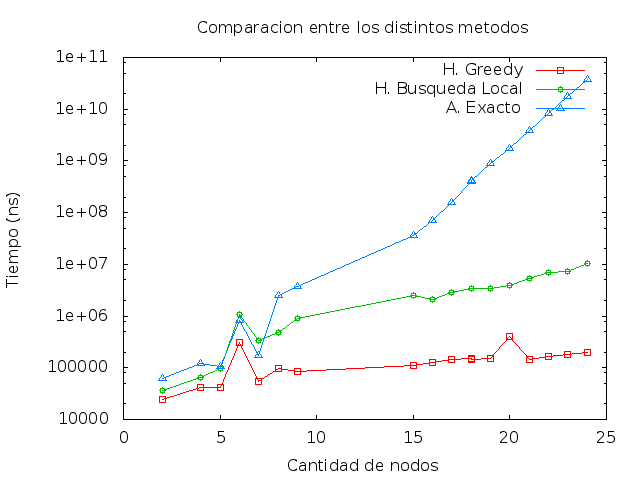
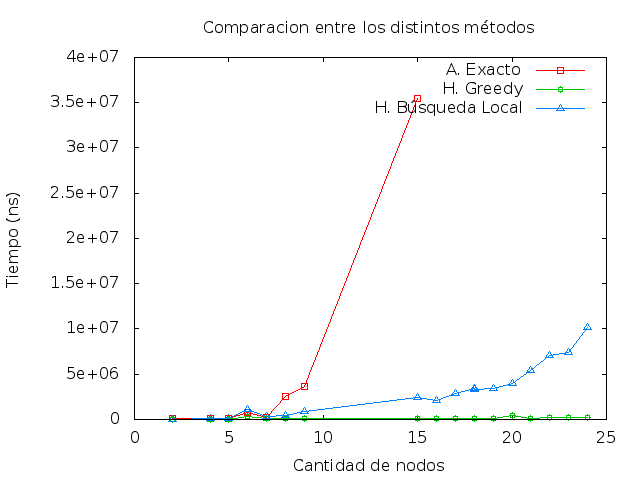
Modificacion en el informe, nuevo grafico de comparacion entre los 3 metodos

diff --git a/tp3/informe/Desarrollo4.tex b/tp3/informe/Desarrollo4.tex
@@ -58,7 +58,7 @@ En particular, hemos encontrado dos casos generales distintos: por un lado, aque
 
 \subsection{Test y análisis}
 En primer lugar, hemos hecho test para encontrar cuál de todas las funciones encuentra los nodos óptimos para el intercambio de nodos 2x1. En la teoría, todas analizan factores distintos, pero en la práctica, al ser muy pocos los nodos que pudimos intercambiar, las distintas funciones no han aportados cambios significativos en la cardinalidad de las soluciones. A lo sumo, ésta han diferido en 1 nodo, no más, y la que ha resultado más efectiva ha sido la de encontrar la diferencia de grados entre la tupla a quitar y el nodo a insertar. Es por eso que ésta función ha sido la que utilizamos para las pruebas restantes. \\
-Una vez establecida qué función deberíamos utilizar para el 2x1, nos abocamos a testear el método de búsqueda local de acuerdo a la cantidad de nodos del grafo y el tiempo que le consume encontrar una solución. Vale aclarar que no tomamos en consideración el tiempo que nos consume encontrar una solución para darle a la búsqueda loca, ya que consideramos que ello no es parte de nuestro algoritmo. De ésta forma, podemos ver que nuestro algoritmo se comporta de forma polinómica en función del tiempo, como lo analizamos en la sección de complejidad.
+Una vez establecida qué función deberíamos utilizar para el 2x1, nos abocamos a testear el método de búsqueda local de acuerdo a la cantidad de nodos del grafo y el tiempo que le consume encontrar una solución. Vale aclarar que no tomamos en consideración el tiempo que nos consume encontrar una solución para darle a la búsqueda loca, ya que consideramos que ello no es parte de nuestro algoritmo. De ésta forma, podemos ver que nuestro algoritmo se comporta de forma polinómica en función del tiempo, como lo analizamos en la sección de complejidad. Es decir, mientras mayor cantidad de nodos tenga la solución que nos proveen, y más relacionados estén entre sí dichos nodos (es decir, a través de aristas hacia nodos del mismo conjunto o del conjunto de los dominados), mayor tiempo requerirá calcular nuestra solución. Además, y de forma conjunta con éste crecimiento, aumenta la cantidad de operaciones requeridas por el algortimo para finalizar cada iteración $k$, incremento que se ve directamente relacionado con el aumento de la cardinalidad de conjunto dominante. Ésto puede verse en el gráfico 1, de forma tal que a mayor cantidad de nodos que le pasamos a nuestra solución, mayor será el tiempo que le toma resolverlo, debido a que debe realizar más operaciones.
 
 \begin{center}
 \includegraphics[width=12cm]{./graficos/tiempoLocalSearch.png}

diff --git a/tp3/informe/Comparaciones.tex b/tp3/informe/Comparaciones.tex
@@ -19,7 +19,8 @@ En ésta sección vamos a comparar tanto las soluciones obtenidas como el consum
 \begin{center}
   \includegraphics[width=12cm]{./graficos/local_comparacion.png}
 \end{center}
-Como vimos en el análisis anterior, para instancias muy pequeñas, y donde la exactitud es preponderante, el algoritmo exacto es el más adecuado a utilizar, ya que la diferencia de tiempo es muy poca, pero la diferencia de la solución podría ser considerable. En cambio, para entradas muy grandes, no es conveniente utilizar el algoritmo exacto, ya que el tiempo que consume es exponencial a su cantidad de nodos, como podemos ver en el gráfico 1. En cambio, es recomendable utilizar alguno de los otros dos algoritmos que estamos analizando.
+Como vimos en el análisis anterior, para instancias muy pequeñas, y donde la exactitud es preponderante, el algoritmo exacto es el más adecuado a utilizar, ya que la diferencia de tiempo es muy poca, pero la diferencia de la solución podría ser considerable. En cambio, para entradas un poco más grandes (como podemos apreciar en el gráfico, de una diferencia de 5 nodos), ya no es conveniente utilizar el algoritmo exacto, ya que el tiempo que consume es exponencial a su cantidad de nodos, como podemos ver en el gráfico 1. En cambio, es recomendable utilizar alguno de los otros dos algoritmos que estamos analizando. \\
+La gran difrencia entre el tiempo utilizado para encontra una solución con la búsqueda local y el algoritmo greedy, a pesar de tener complejidades parecidas, la podemos adjudicar a que en la búsqueda local, el proceso de encontrar soluciones "locales" se repite varias veces, y para varios métodos que tienen la misma complejidad (como ya dijimos antes, $n^2$), asique si bien consume más tiempo que la heurística golosa, ésta crece de forma polinomial, y es, por lejos, mucho mejor que la solución exacta, y muchas veces, como podremos analizar en parrafo y gráfico siguiente, nos ofrece una solución igual a la exacta o cuya cardinalidad difiere en 1 o 2 nodos únicamente. \\
 Cuál de ellos es una pregunta que debe ser respondida según la situación y la exactitud de la solución que se busque, a partir del análisis de los gráficos 1 y 2 de ésta sección, donde se analiza la cantidad de soluciones y el tiempo demandado para encontrarlas. 
 
 \begin{center}
